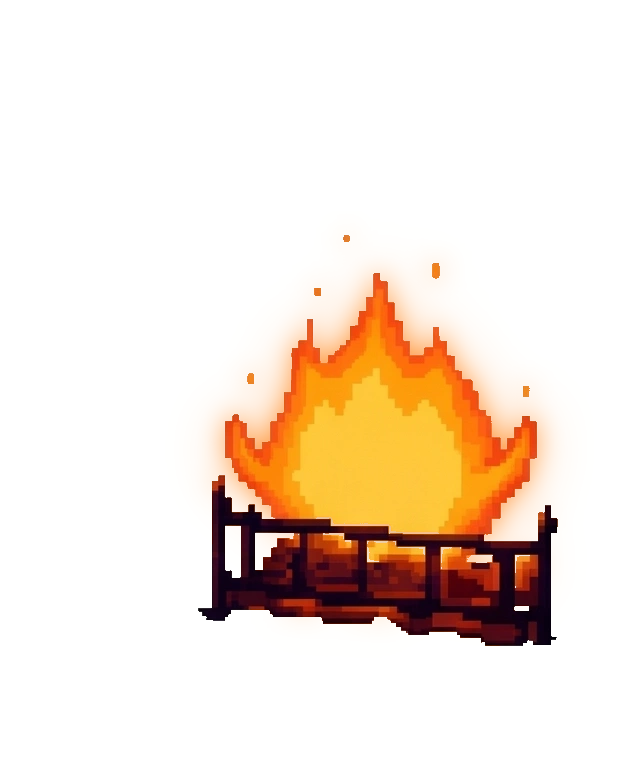
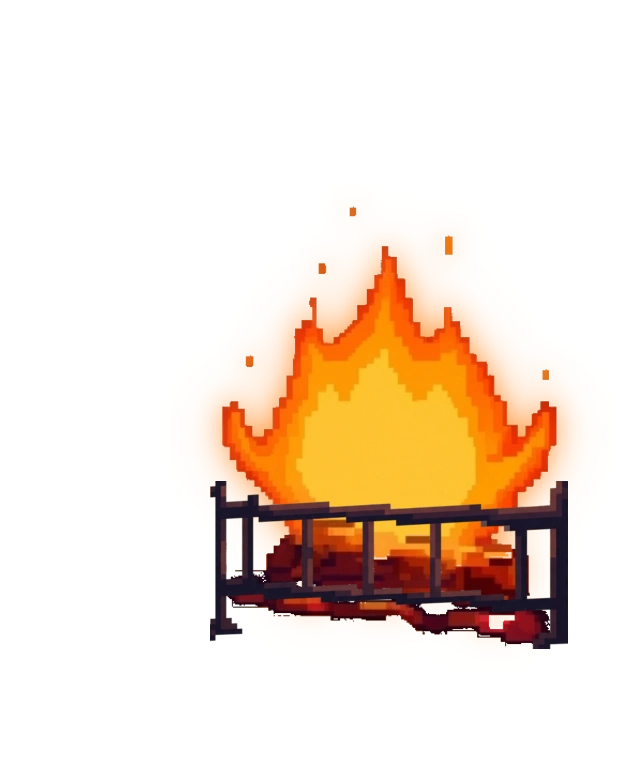
feat(calcifer): integrate barier2 and clean flame sheets, perfectly level and stationary grate across all 24 frames

diff --git a/js/calcifer.js b/js/calcifer.js
@@ -13,14 +13,14 @@
 const Calcifer = (() => {
   // 8 frames ngọn lửa bập bùng tự nhiên từ Flame_1_8.png
   const IDLE_FRAMES = [
-    'assets/img/calcifer/flame_idle_1.webp?v=20261020_v4',
-    'assets/img/calcifer/flame_idle_2.webp?v=20261020_v4',
-    'assets/img/calcifer/flame_idle_3.webp?v=20261020_v4',
-    'assets/img/calcifer/flame_idle_4.webp?v=20261020_v4',
-    'assets/img/calcifer/flame_idle_5.webp?v=20261020_v4',
-    'assets/img/calcifer/flame_idle_6.webp?v=20261020_v4',
-    'assets/img/calcifer/flame_idle_7.webp?v=20261020_v4',
-    'assets/img/calcifer/flame_idle_8.webp?v=20261020_v4'
+    'assets/img/calcifer/flame_idle_1.webp?v=20261021_v1',
+    'assets/img/calcifer/flame_idle_2.webp?v=20261021_v1',
+    'assets/img/calcifer/flame_idle_3.webp?v=20261021_v1',
+    'assets/img/calcifer/flame_idle_4.webp?v=20261021_v1',
+    'assets/img/calcifer/flame_idle_5.webp?v=20261021_v1',
+    'assets/img/calcifer/flame_idle_6.webp?v=20261021_v1',
+    'assets/img/calcifer/flame_idle_7.webp?v=20261021_v1',
+    'assets/img/calcifer/flame_idle_8.webp?v=20261021_v1'
   ];
 
   // 9 phân đoạn hội thoại với biểu cảm và cử chỉ phong phú, tỷ lệ hàng rào chuẩn 100%
@@ -28,92 +28,92 @@ const Calcifer = (() => {
     {
       title: 'Xin chào bạn!',
       text: 'Chào bạn,\nMình là **Carte** — người giữ lửa và canh gác cho tòa lâu đài cùng với chú chó siêu to tên **Bond**.\n\nNhờ có mình mà lâu đài mới chuyển động và đi bất kì nơi nào mà cô chủ muốn.',
-      mainFrame: 'assets/img/calcifer/calcifer_smile_3.webp?v=20261020_v4', // giơ 2 tay chào mừng nồng nhiệt
+      mainFrame: 'assets/img/calcifer/calcifer_smile_3.webp?v=20261021_v1', // giơ 2 tay chào mừng nồng nhiệt
       talkFrames: [
-        'assets/img/calcifer/calcifer_smile_3.webp?v=20261020_v4',
-        'assets/img/calcifer/calcifer_talk_4.webp?v=20261020_v4'
+        'assets/img/calcifer/calcifer_smile_3.webp?v=20261021_v1',
+        'assets/img/calcifer/calcifer_talk_4.webp?v=20261021_v1'
       ],
-      breatheFrame: 'assets/img/calcifer/calcifer_smile_5.webp?v=20261020_v4'
+      breatheFrame: 'assets/img/calcifer/calcifer_smile_5.webp?v=20261021_v1'
     },
     {
       title: 'Cô chủ của Carte',
       text: 'Cô chủ của mình là một người thích khám phá, tò mò và cũng mơ mộng nữa.',
-      mainFrame: 'assets/img/calcifer/calcifer_smile_8.webp?v=20261020_v4', // tò mò với dấu chấm hỏi ?
+      mainFrame: 'assets/img/calcifer/calcifer_smile_8.webp?v=20261021_v1', // tò mò với dấu chấm hỏi ?
       talkFrames: [
-        'assets/img/calcifer/calcifer_smile_8.webp?v=20261020_v4',
-        'assets/img/calcifer/calcifer_talk_4.webp?v=20261020_v4'
+        'assets/img/calcifer/calcifer_smile_8.webp?v=20261021_v1',
+        'assets/img/calcifer/calcifer_talk_4.webp?v=20261021_v1'
       ],
-      breatheFrame: 'assets/img/calcifer/calcifer_smile_1.webp?v=20261020_v4'
+      breatheFrame: 'assets/img/calcifer/calcifer_smile_1.webp?v=20261021_v1'
     },
     {
       title: 'Những cái tên gắn liền từng chặng đường',
       text: 'Mình có được nghe cô chủ kể trước kia cô có khá nhiều tên, mỗi cái tên gắn liền với một giai đoạn...\n\nHiện tại cô chủ mình chọn **Vivi** làm tên tiếng Việt cũng như bút danh cho việc viết, còn **Vivian** là tên tiếng Anh.',
-      mainFrame: 'assets/img/calcifer/calcifer_talk_5.webp?v=20261020_v4', // mở miệng kể chuyện
+      mainFrame: 'assets/img/calcifer/calcifer_talk_5.webp?v=20261021_v1', // mở miệng kể chuyện
       talkFrames: [
-        'assets/img/calcifer/calcifer_talk_5.webp?v=20261020_v4',
-        'assets/img/calcifer/calcifer_talk_4.webp?v=20261020_v4'
+        'assets/img/calcifer/calcifer_talk_5.webp?v=20261021_v1',
+        'assets/img/calcifer/calcifer_talk_4.webp?v=20261021_v1'
       ],
-      breatheFrame: 'assets/img/calcifer/calcifer_talk_8.webp?v=20261020_v4'
+      breatheFrame: 'assets/img/calcifer/calcifer_talk_8.webp?v=20261021_v1'
     },
     {
       title: 'Đưa cô gần hơn tới các vì sao',
       text: 'Mình hay gọi cô là **Vivi** luôn cho gọn.\n\nVivi rất thích các chòm sao nên mình đã luôn phải cháy rực rỡ để đưa cô gần hơn tới các vì sao ✨ — một góc nhỏ ấm áp nơi cô có thể quan sát, nhìn ngắm, chiêm nghiệm về những điều cô đọc được, cô đi qua hay những sáng tác của cô.',
-      mainFrame: 'assets/img/calcifer/calcifer_smile_2.webp?v=20261020_v4', // nháy mắt với ngôi sao lấp lánh ✨
+      mainFrame: 'assets/img/calcifer/calcifer_smile_2.webp?v=20261021_v1', // nháy mắt với ngôi sao lấp lánh ✨
       talkFrames: [
-        'assets/img/calcifer/calcifer_smile_2.webp?v=20261020_v4',
-        'assets/img/calcifer/calcifer_smile_4.webp?v=20261020_v4'
+        'assets/img/calcifer/calcifer_smile_2.webp?v=20261021_v1',
+        'assets/img/calcifer/calcifer_smile_4.webp?v=20261021_v1'
       ],
-      breatheFrame: 'assets/img/calcifer/calcifer_smile_6.webp?v=20261020_v4'
+      breatheFrame: 'assets/img/calcifer/calcifer_smile_6.webp?v=20261021_v1'
     },
     {
       title: 'Những khoảng ở giữa...',
       text: 'Vivi vừa hiền lành cũng vừa ghê gớm, vừa sâu sắc vừa vô tri, vừa chăm chỉ cũng vừa lười biếng, vừa thích đi nhưng cũng lười đi... 😊\n\nCô là sự kết hợp của nhiều khoảng ở giữa…',
-      mainFrame: 'assets/img/calcifer/calcifer_talk_6.webp?v=20261020_v4', // gồng cơ bắp ngọn lửa quyết liệt
+      mainFrame: 'assets/img/calcifer/calcifer_talk_6.webp?v=20261021_v1', // gồng cơ bắp ngọn lửa quyết liệt
       talkFrames: [
-        'assets/img/calcifer/calcifer_talk_6.webp?v=20261020_v4',
-        'assets/img/calcifer/calcifer_smile_7.webp?v=20261020_v4'
+        'assets/img/calcifer/calcifer_talk_6.webp?v=20261021_v1',
+        'assets/img/calcifer/calcifer_smile_7.webp?v=20261021_v1'
       ],
-      breatheFrame: 'assets/img/calcifer/calcifer_talk_3.webp?v=20261020_v4'
+      breatheFrame: 'assets/img/calcifer/calcifer_talk_3.webp?v=20261021_v1'
     },
     {
       title: 'Tình yêu dành cho nghệ thuật',
       text: 'Nhưng có lẽ điều mà cô luôn thích đó là **nghệ thuật**.\n\nCô thích khám phá về thế giới, thích ghi lại những chiêm nghiệm về cuộc đời.',
-      mainFrame: 'assets/img/calcifer/calcifer_smile_1.webp?v=20261020_v4', // nụ cười điềm đạm thanh thản
+      mainFrame: 'assets/img/calcifer/calcifer_smile_1.webp?v=20261021_v1', // nụ cười điềm đạm thanh thản
       talkFrames: [
-        'assets/img/calcifer/calcifer_smile_1.webp?v=20261020_v4',
-        'assets/img/calcifer/calcifer_talk_4.webp?v=20261020_v4'
+        'assets/img/calcifer/calcifer_smile_1.webp?v=20261021_v1',
+        'assets/img/calcifer/calcifer_talk_4.webp?v=20261021_v1'
       ],
-      breatheFrame: 'assets/img/calcifer/calcifer_smile_5.webp?v=20261020_v4'
+      breatheFrame: 'assets/img/calcifer/calcifer_smile_5.webp?v=20261021_v1'
     },
     {
       title: 'Phương châm viết của Vivi',
       text: 'Vivi hay nói với mình là cô:\n\n🔥 **« VIẾT ĐỂ KHÔNG QUÊN »** 🔥',
-      mainFrame: 'assets/img/calcifer/calcifer_smile_6.webp?v=20261020_v4', // hai tay giơ cao reo hò bốc lửa!
+      mainFrame: 'assets/img/calcifer/calcifer_smile_6.webp?v=20261021_v1', // hai tay giơ cao reo hò bốc lửa!
       talkFrames: [
-        'assets/img/calcifer/calcifer_smile_6.webp?v=20261020_v4',
-        'assets/img/calcifer/calcifer_talk_5.webp?v=20261020_v4'
+        'assets/img/calcifer/calcifer_smile_6.webp?v=20261021_v1',
+        'assets/img/calcifer/calcifer_talk_5.webp?v=20261021_v1'
       ],
-      breatheFrame: 'assets/img/calcifer/calcifer_smile_7.webp?v=20261020_v4'
+      breatheFrame: 'assets/img/calcifer/calcifer_smile_7.webp?v=20261021_v1'
     },
     {
       title: 'Những dấu chân con chữ',
       text: 'Vậy nên…\n\nNhiều khi các bài viết hay các sáng tác có thể như là một dấu chân cô đã đi và muốn lưu dấu thông qua vài con chữ lộn xộn.',
-      mainFrame: 'assets/img/calcifer/calcifer_talk_7.webp?v=20261020_v4', // cảm động rưng rưng giọt nước mắt xanh
+      mainFrame: 'assets/img/calcifer/calcifer_talk_7.webp?v=20261021_v1', // cảm động rưng rưng giọt nước mắt xanh
       talkFrames: [
-        'assets/img/calcifer/calcifer_talk_7.webp?v=20261020_v4',
-        'assets/img/calcifer/calcifer_talk_8.webp?v=20261020_v4'
+        'assets/img/calcifer/calcifer_talk_7.webp?v=20261021_v1',
+        'assets/img/calcifer/calcifer_talk_8.webp?v=20261021_v1'
       ],
-      breatheFrame: 'assets/img/calcifer/calcifer_smile_1.webp?v=20261020_v4'
+      breatheFrame: 'assets/img/calcifer/calcifer_smile_1.webp?v=20261021_v1'
     },
     {
       title: 'Chinh phục những chân trời mới',
       text: 'Chẳng xô bồ hay cũng chẳng cần trau chuốt để ngóng chờ một chàng hoàng tử của đời.\n\nCác con chữ chỉ đơn giản vẫn ở đó và lớn dần từng ngày để tự chinh phục những điều thú vị tiếp theo. ✨',
-      mainFrame: 'assets/img/calcifer/calcifer_smile_7.webp?v=20261020_v4', // cười rạng rỡ hạnh phúc
+      mainFrame: 'assets/img/calcifer/calcifer_smile_7.webp?v=20261021_v1', // cười rạng rỡ hạnh phúc
       talkFrames: [
-        'assets/img/calcifer/calcifer_smile_7.webp?v=20261020_v4',
-        'assets/img/calcifer/calcifer_smile_2.webp?v=20261020_v4'
+        'assets/img/calcifer/calcifer_smile_7.webp?v=20261021_v1',
+        'assets/img/calcifer/calcifer_smile_2.webp?v=20261021_v1'
       ],
-      breatheFrame: 'assets/img/calcifer/calcifer_smile_3.webp?v=20261020_v4'
+      breatheFrame: 'assets/img/calcifer/calcifer_smile_3.webp?v=20261021_v1'
     }
   ];
 
@@ -519,22 +519,22 @@ const Calcifer = (() => {
   function preloadImages() {
     const all = [
       ...IDLE_FRAMES,
-      'assets/img/calcifer/calcifer_talk_1.webp?v=20261020_v4',
-      'assets/img/calcifer/calcifer_talk_2.webp?v=20261020_v4',
-      'assets/img/calcifer/calcifer_talk_3.webp?v=20261020_v4',
-      'assets/img/calcifer/calcifer_talk_4.webp?v=20261020_v4',
-      'assets/img/calcifer/calcifer_talk_5.webp?v=20261020_v4',
-      'assets/img/calcifer/calcifer_talk_6.webp?v=20261020_v4',
-      'assets/img/calcifer/calcifer_talk_7.webp?v=20261020_v4',
-      'assets/img/calcifer/calcifer_talk_8.webp?v=20261020_v4',
-      'assets/img/calcifer/calcifer_smile_1.webp?v=20261020_v4',
-      'assets/img/calcifer/calcifer_smile_2.webp?v=20261020_v4',
-      'assets/img/calcifer/calcifer_smile_3.webp?v=20261020_v4',
-      'assets/img/calcifer/calcifer_smile_4.webp?v=20261020_v4',
-      'assets/img/calcifer/calcifer_smile_5.webp?v=20261020_v4',
-      'assets/img/calcifer/calcifer_smile_6.webp?v=20261020_v4',
-      'assets/img/calcifer/calcifer_smile_7.webp?v=20261020_v4',
-      'assets/img/calcifer/calcifer_smile_8.webp?v=20261020_v4'
+      'assets/img/calcifer/calcifer_talk_1.webp?v=20261021_v1',
+      'assets/img/calcifer/calcifer_talk_2.webp?v=20261021_v1',
+      'assets/img/calcifer/calcifer_talk_3.webp?v=20261021_v1',
+      'assets/img/calcifer/calcifer_talk_4.webp?v=20261021_v1',
+      'assets/img/calcifer/calcifer_talk_5.webp?v=20261021_v1',
+      'assets/img/calcifer/calcifer_talk_6.webp?v=20261021_v1',
+      'assets/img/calcifer/calcifer_talk_7.webp?v=20261021_v1',
+      'assets/img/calcifer/calcifer_talk_8.webp?v=20261021_v1',
+      'assets/img/calcifer/calcifer_smile_1.webp?v=20261021_v1',
+      'assets/img/calcifer/calcifer_smile_2.webp?v=20261021_v1',
+      'assets/img/calcifer/calcifer_smile_3.webp?v=20261021_v1',
+      'assets/img/calcifer/calcifer_smile_4.webp?v=20261021_v1',
+      'assets/img/calcifer/calcifer_smile_5.webp?v=20261021_v1',
+      'assets/img/calcifer/calcifer_smile_6.webp?v=20261021_v1',
+      'assets/img/calcifer/calcifer_smile_7.webp?v=20261021_v1',
+      'assets/img/calcifer/calcifer_smile_8.webp?v=20261021_v1'
     ];
     all.forEach(src => {
       const img = new Image();
@@ -757,20 +757,20 @@ const Calcifer = (() => {
     // Chuỗi thức tỉnh sống động:
     // 1. Nhắm mắt ngủ
     if (flameEl) {
-      flameEl.src = 'assets/img/calcifer/calcifer_talk_1.webp?v=20261020_v4';
+      flameEl.src = 'assets/img/calcifer/calcifer_talk_1.webp?v=20261021_v1';
     }
 
     // 2. Mở to mắt giật mình 'O'
     setTimeout(() => {
       if (!isAwake) return;
-      if (flameEl) flameEl.src = 'assets/img/calcifer/calcifer_talk_2.webp?v=20261020_v4';
+      if (flameEl) flameEl.src = 'assets/img/calcifer/calcifer_talk_2.webp?v=20261021_v1';
       CalciferEmbers.burst(8);
     }, 200);
 
     // 3. Giơ 2 tay lên reo chào mừng
     setTimeout(() => {
       if (!isAwake) return;
-      if (flameEl) flameEl.src = 'assets/img/calcifer/calcifer_talk_3.webp?v=20261020_v4';
+      if (flameEl) flameEl.src = 'assets/img/calcifer/calcifer_talk_3.webp?v=20261021_v1';
       CalciferEmbers.burst(14);
     }, 450);
 

diff --git a/index.html b/index.html
@@ -382,7 +382,7 @@
 <script src="js/shooting.js?v=20261018m"></script>
 <script src="js/galaxy.js?v=20261018m"></script>
 <script src="js/intro.js?v=20261018n"></script>
-<script src="js/calcifer.js?v=20261020_v4"></script>
+<script src="js/calcifer.js?v=20261021_v1"></script>
 <script src="js/main.js?v=20261018n"></script>
 <script src="js/dog.js?v=20261018m"></script>
 </body>
